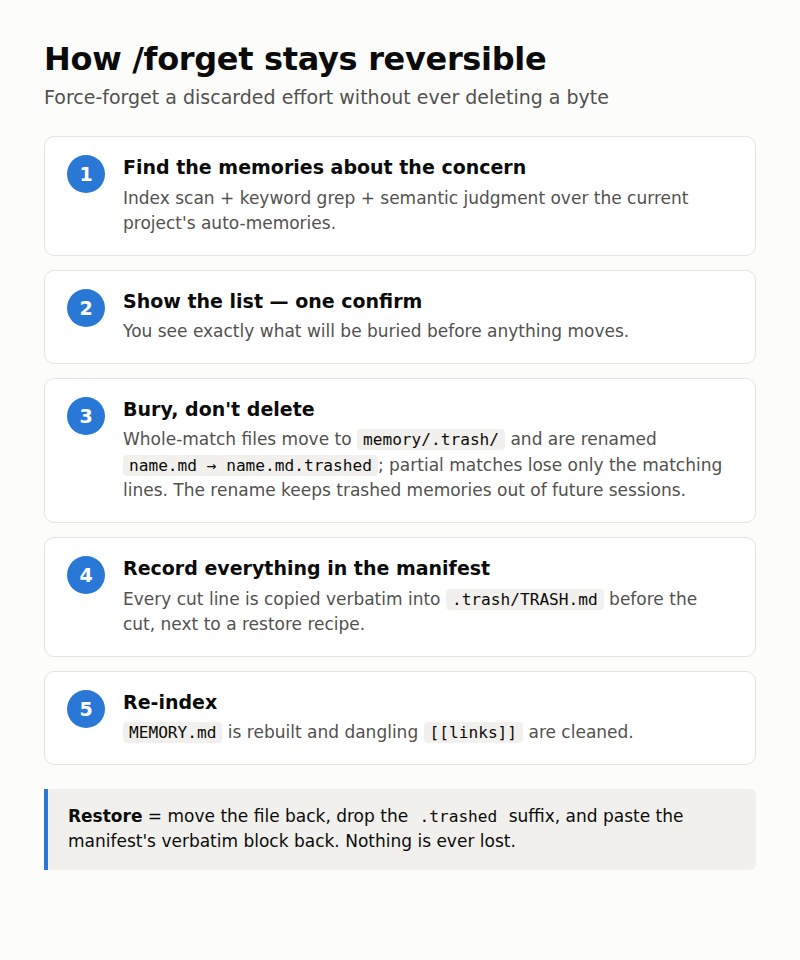
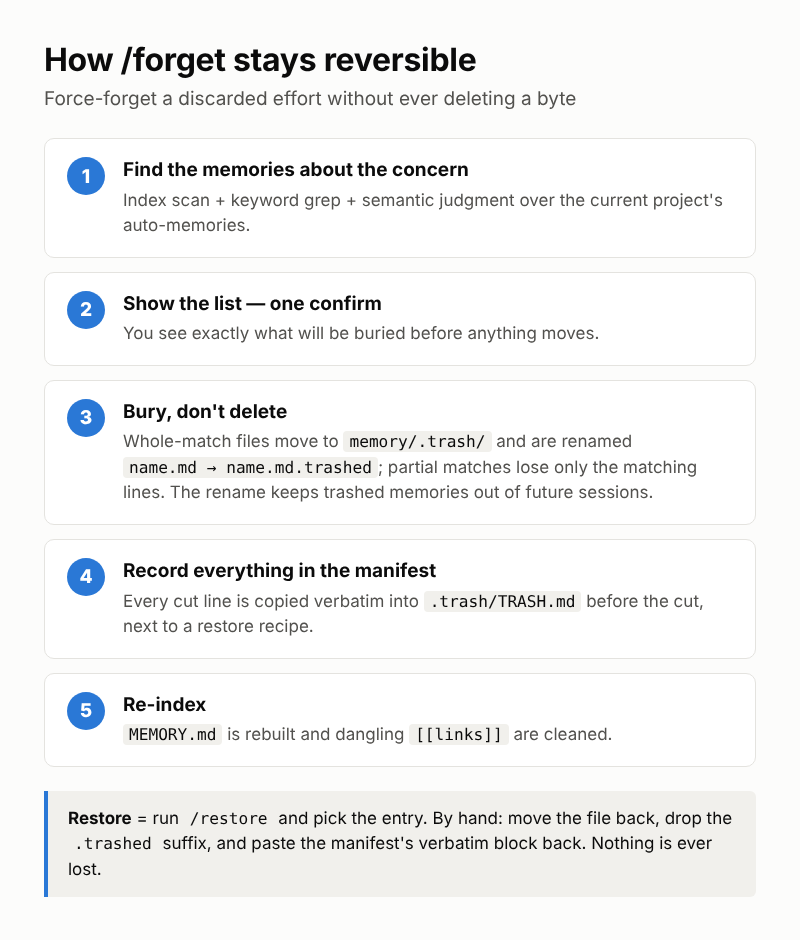
README images: /restore stage in the lifecycle, /restore in the forget-flow footer
- lifecycle: five skills, /restore box, /checkup mentions index health and trim
- forget-flow: footer points at /restore, by-hand recipe kept
- README alt texts match the images; ROADMAP item done

Claude-Session: https://claude.ai/code/session_01APejRFKrHSMt28GXvvcvyD

diff --git a/assets/src/lifecycle.html b/assets/src/lifecycle.html
@@ -18,7 +18,7 @@
 </style>
 <body>
   <h1>The memory lifecycle</h1>
-  <div class="sub">Four skills that cover an auto-memory's whole life — from a clean slate to a reversible retirement</div>
+  <div class="sub">Five skills that cover an auto-memory's whole life — from a clean slate to a retirement you can undo</div>
   <div class="flow">
     <div class="stage">
       <div class="head"><span class="cmd">/fresh</span><span class="role">Start at zero</span></div>
@@ -32,12 +32,17 @@
     <div class="arrow">&#8595;</div>
     <div class="stage">
       <div class="head"><span class="cmd">/checkup</span><span class="role">Review what went stale</span></div>
-      <div class="desc">Sweeps past-due <code>review-after</code> stamps and status-like notes; you pick per file: refresh, mark historical, stamp, forget, or skip.</div>
+      <div class="desc">Sweeps past-due <code>review-after</code> stamps, status-like notes and the health of the <code>MEMORY.md</code> index; you pick per item: refresh, mark historical, stamp, trim, forget, or skip.</div>
     </div>
     <div class="arrow">&#8595;</div>
     <div class="stage">
       <div class="head"><span class="cmd">/forget</span><span class="role">Retire what is finished</span></div>
       <div class="desc">Moves whole-match files to <code>.trash/</code>, cuts matching lines from the rest, and records everything in a manifest with a restore recipe.</div>
+    </div>
+    <div class="arrow">&#8595;</div>
+    <div class="stage">
+      <div class="head"><span class="cmd">/restore</span><span class="role">Undo any of it</span></div>
+      <div class="desc">Picks one <code>/forget</code> or <code>/checkup</code> entry from the manifest, shows a dry run, then moves files back and pastes every cut line where it was.</div>
     </div>
   </div>
   <div class="foot">Every destructive-looking step is reversible: no memory file is ever deleted, and every cut line is copied verbatim into <b>.trash/TRASH.md</b> before the cut.</div>

diff --git a/assets/src/forget-flow.html b/assets/src/forget-flow.html
@@ -24,5 +24,5 @@
     <div class="step"><div class="n">4</div><div><div class="t">Record everything in the manifest</div><div class="d">Every cut line is copied verbatim into <code>.trash/TRASH.md</code> before the cut, next to a restore recipe.</div></div></div>
     <div class="step"><div class="n">5</div><div><div class="t">Re-index</div><div class="d"><code>MEMORY.md</code> is rebuilt and dangling <code>[[links]]</code> are cleaned.</div></div></div>
   </div>
-  <div class="foot"><b>Restore</b> = move the file back, drop the <code>.trashed</code> suffix, and paste the manifest's verbatim block back. Nothing is ever lost.</div>
+  <div class="foot"><b>Restore</b> = run <code>/restore</code> and pick the entry. By hand: move the file back, drop the <code>.trashed</code> suffix, and paste the manifest's verbatim block back. Nothing is ever lost.</div>
 </body>

diff --git a/README.md b/README.md
@@ -1,10 +1,10 @@
 # claude-forget
 
-![Banner: claude-forget — memory lifecycle for Claude Code auto-memory. Nothing is ever deleted, everything can be undone. Four skill chips: /fresh, /recall, /checkup, /forget.](assets/banner.png)
+![Banner: claude-forget — memory lifecycle for Claude Code auto-memory. Nothing is ever deleted, everything can be undone. Five skill chips: /fresh, /recall, /checkup, /forget, /restore.](assets/banner.png)
 
 Memory lifecycle for Claude Code auto-memory: /forget buries what you discard, /checkup finds what went stale, /fresh works memory-free, and /recall loads the minimum back.
 
-![Diagram of the memory lifecycle. Four stages in order: /fresh starts at zero with a memory quarantine; /recall pulls the minimum back, read-only, opening exactly one topic file; /checkup reviews past-due review-after stamps and stale status notes; /forget retires finished work by moving files to .trash with a restore manifest. Footer: every step is reversible — no memory file is ever deleted, every cut line is copied verbatim into .trash/TRASH.md before the cut.](assets/lifecycle.png)
+![Diagram of the memory lifecycle. Five stages in order: /fresh starts at zero with a memory quarantine; /recall pulls the minimum back, read-only, opening exactly one topic file; /checkup reviews past-due review-after stamps, stale status notes and the health of the MEMORY.md index; /forget retires finished work by moving files to .trash with a restore manifest; /restore undoes one /forget or /checkup entry from that manifest. Footer: every step is reversible — no memory file is ever deleted, every cut line is copied verbatim into .trash/TRASH.md before the cut.](assets/lifecycle.png)
 
 ## Which door when?
 
@@ -23,7 +23,7 @@ subagent's memory folder instead of the project's.
 
 ### /forget <concern>
 
-![Diagram: how /forget stays reversible, in five steps. 1: find the memories about the concern via index scan, keyword grep, and semantic judgment. 2: show the list — one confirm. 3: bury, don't delete — whole-match files move to memory/.trash/ and are renamed name.md to name.md.trashed; partial matches lose only the matching lines. 4: record everything in the .trash/TRASH.md manifest with a restore recipe. 5: re-index MEMORY.md and clean dangling links. Footer: restore = move the file back, drop the .trashed suffix, paste the manifest's verbatim block back.](assets/forget-flow.png)
+![Diagram: how /forget stays reversible, in five steps. 1: find the memories about the concern via index scan, keyword grep, and semantic judgment. 2: show the list — one confirm. 3: bury, don't delete — whole-match files move to memory/.trash/ and are renamed name.md to name.md.trashed; partial matches lose only the matching lines. 4: record everything in the .trash/TRASH.md manifest with a restore recipe. 5: re-index MEMORY.md and clean dangling links. Footer: restore = run /restore and pick the entry; by hand, move the file back, drop the .trashed suffix, paste the manifest's verbatim block back.](assets/forget-flow.png)
 
 Force-forget a discarded effort, reversibly. It:
 

diff --git a/ROADMAP.md b/ROADMAP.md
@@ -157,7 +157,6 @@ See `CHANGELOG.md`. Skills /forget, /restore and /checkup are generated from
 
 ## v0.4.x candidates
 
-- Lifecycle diagram (`assets/lifecycle.png`) gains the /restore stage.
 - `/checkup`: a MERGE action that folds several index lines into one. Writes
   new text, so it needs its own manifest block and a careful gate.
 - Firmer `.claudeignore` wording: one agent-folder run skipped creating it.
